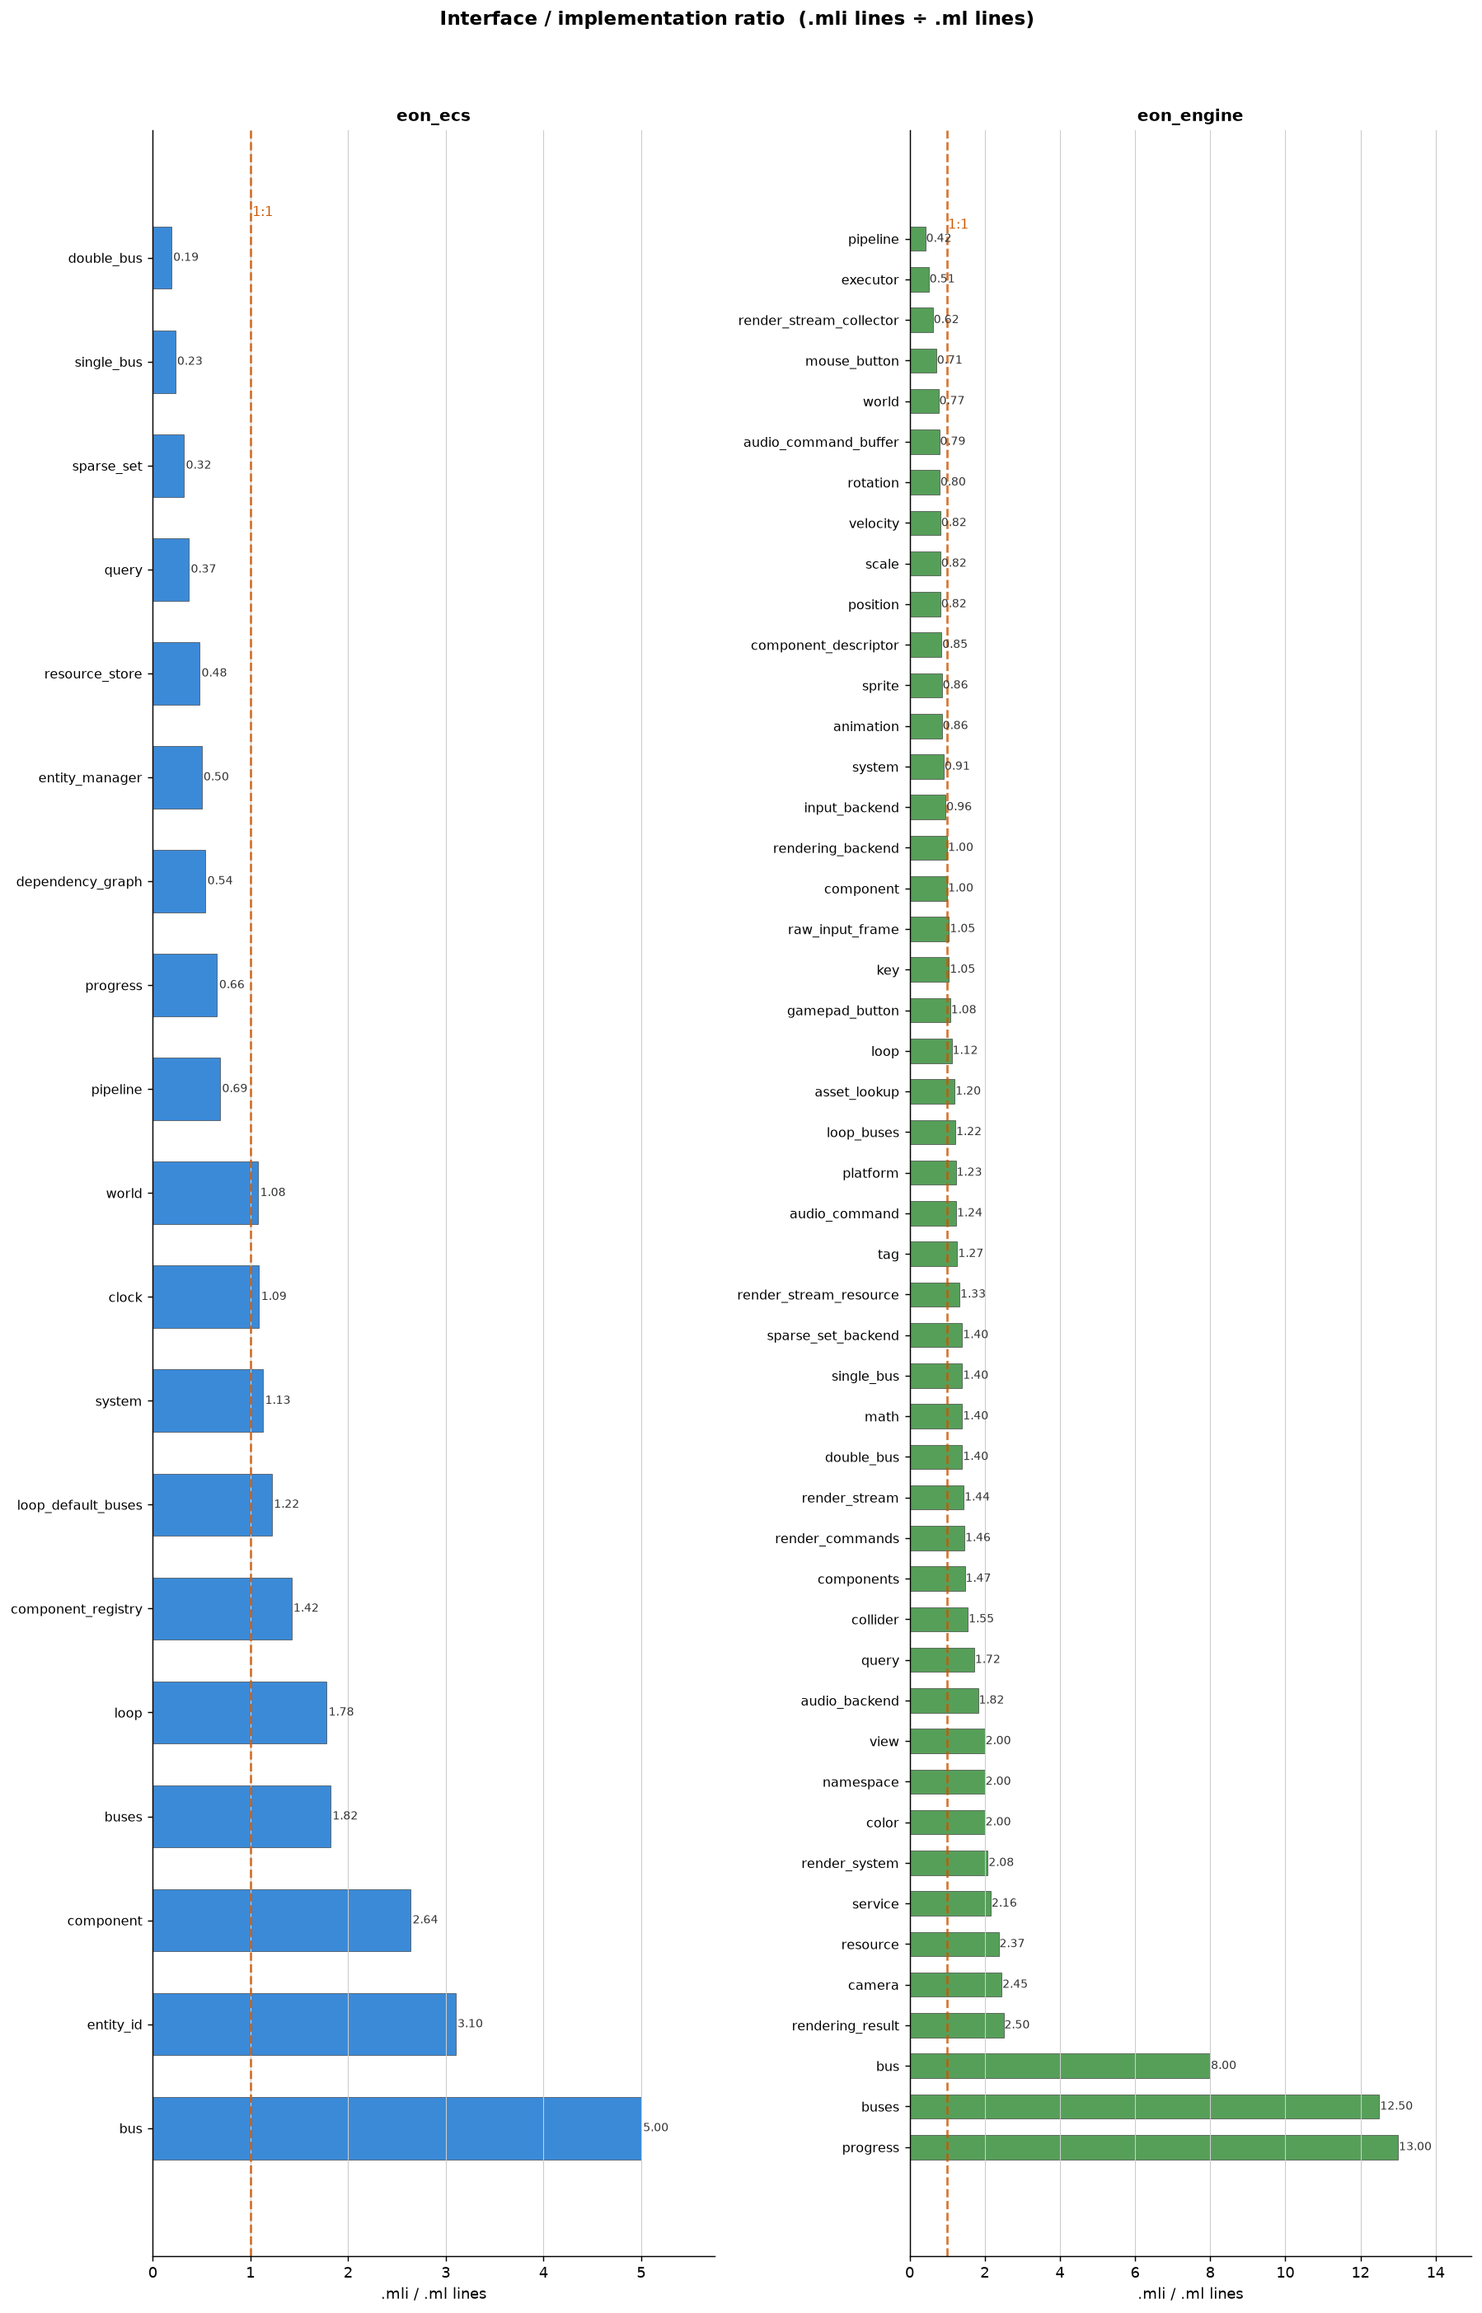
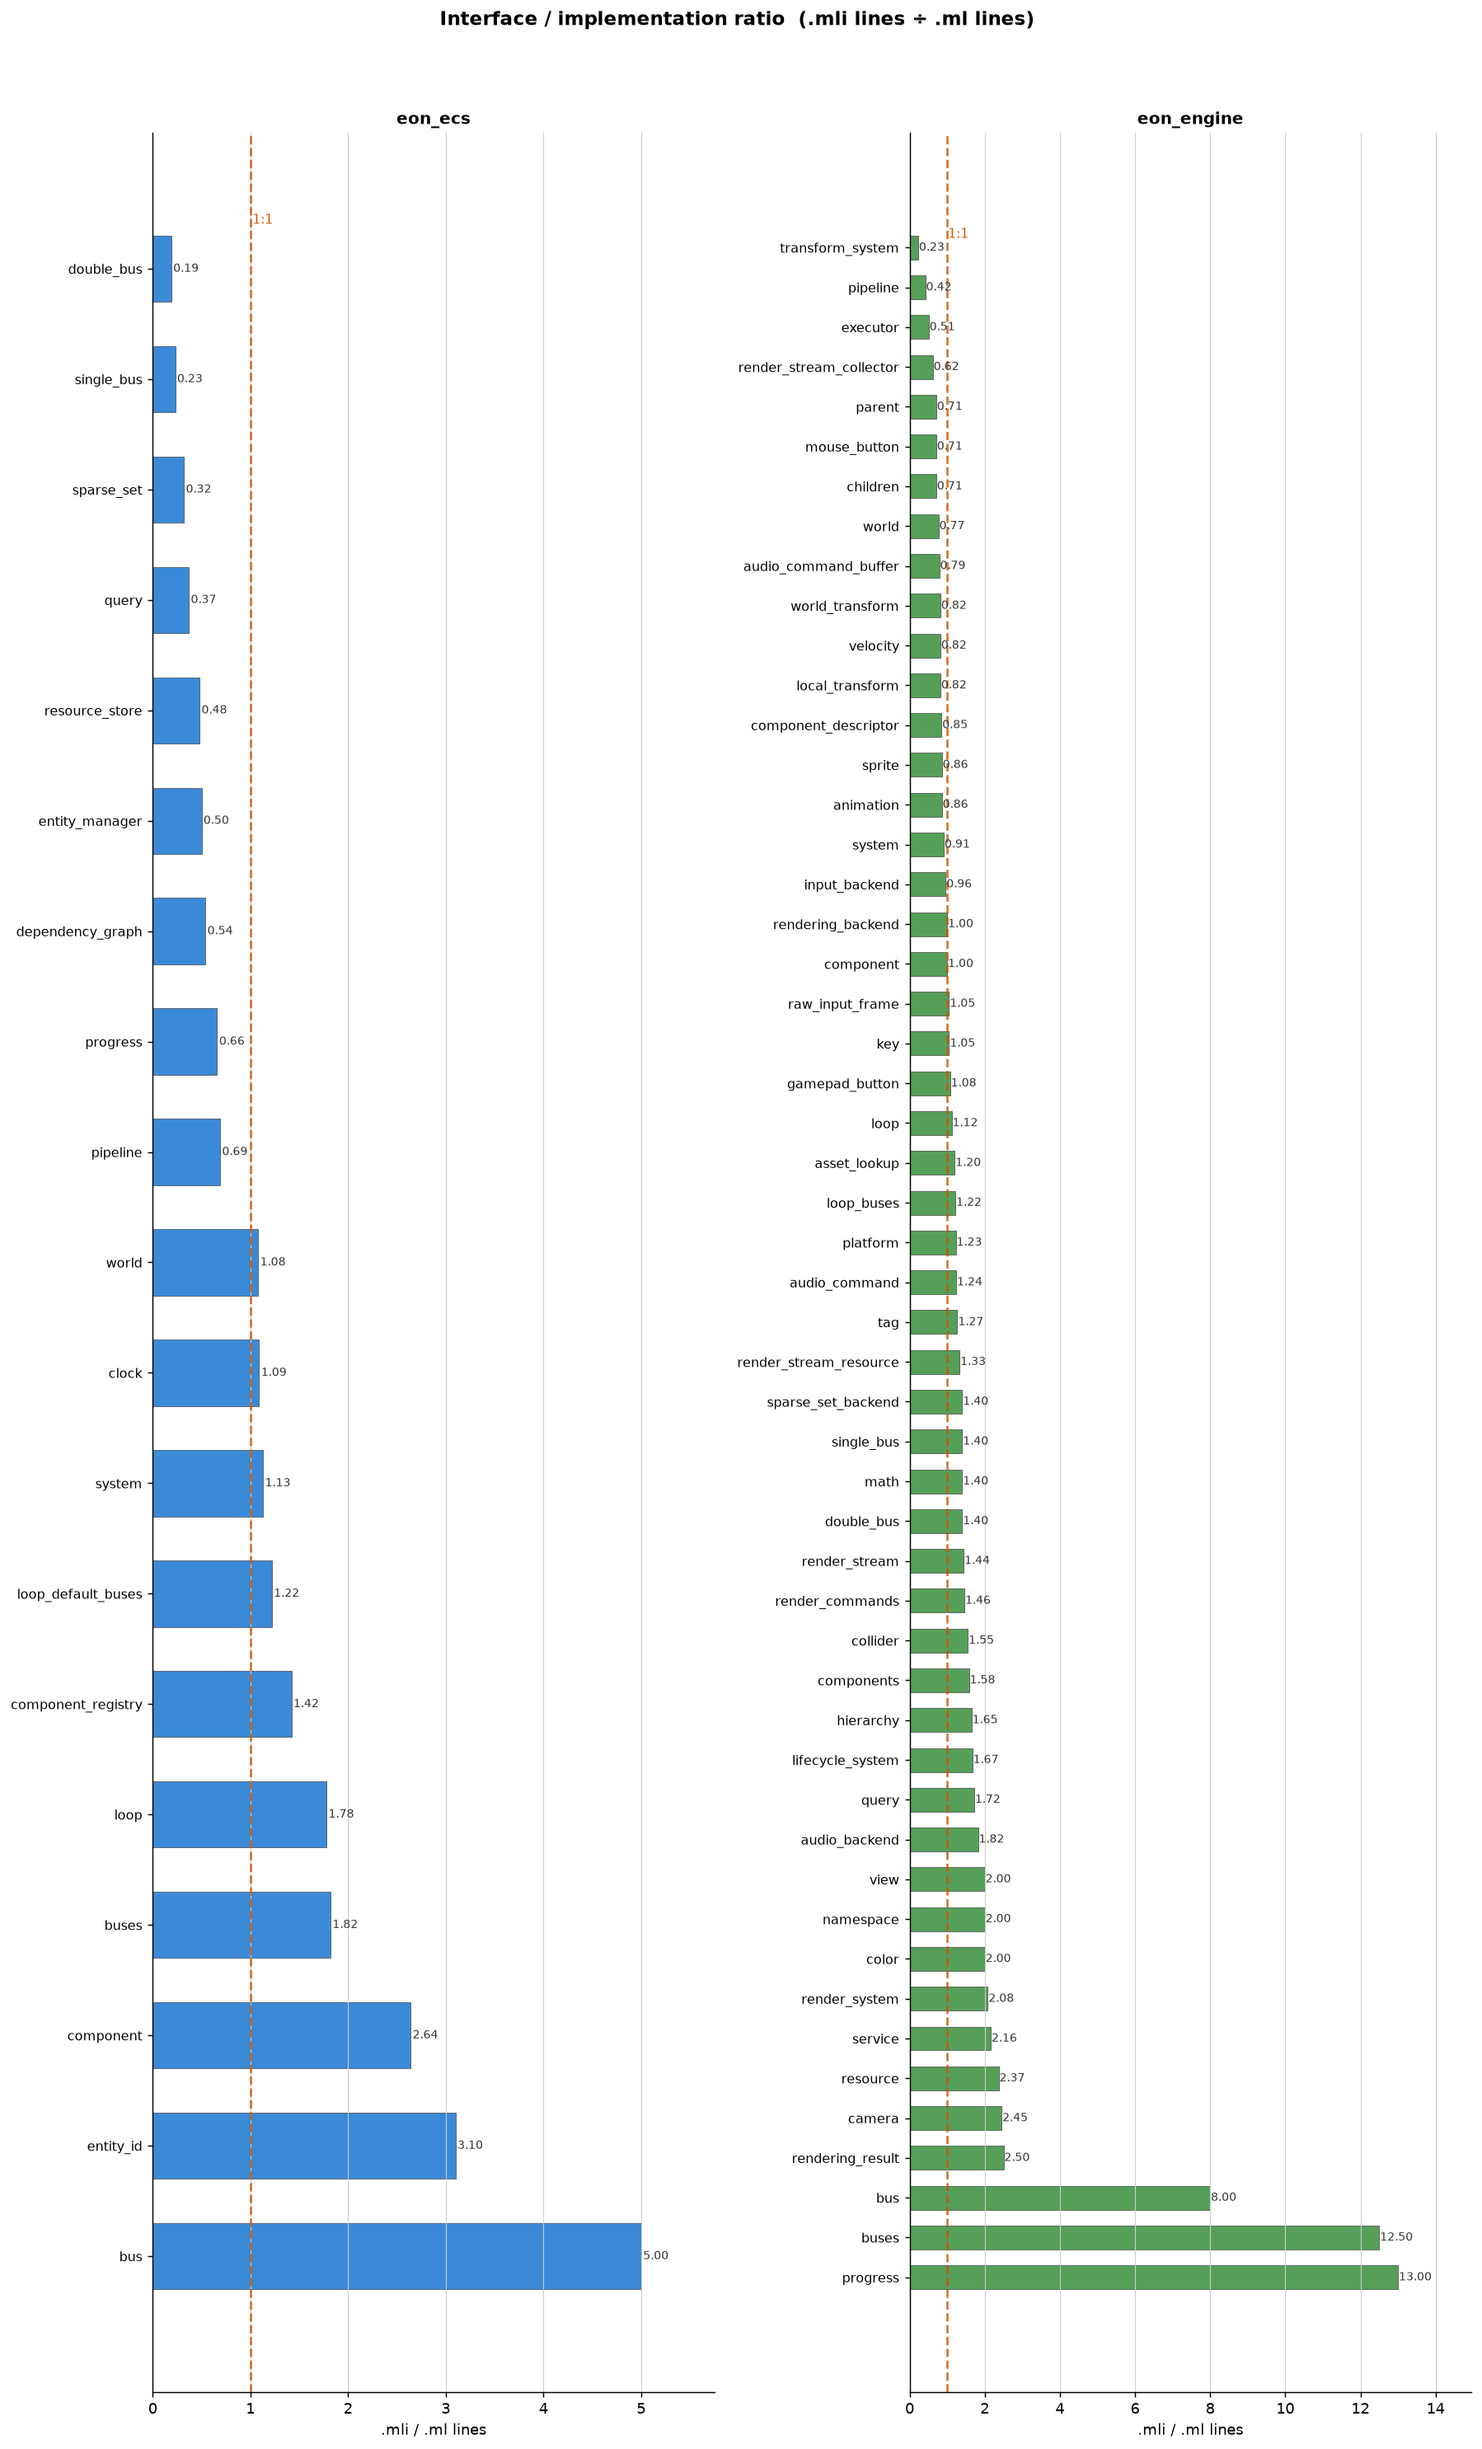
[eon :: docs] Split module dependency graph into eon_ecs, eon_engine, and cross-package views
- Replace single module_dependency_graph with three focused diagrams:
  dep_eon_ecs.png, dep_eon_engine.png, dep_cross_package.png
- Add Hierarchy, Transform_system, Lifecycle_system to eon_engine graph
- Add hierarchy/transform_system/lifecycle_system to coverage map
- Update codebase_map.md with new section structure and descriptions
- Refresh stats, LOC, and interface ratio charts

diff --git a/docs/design/codebase_map.md b/docs/design/codebase_map.md
@@ -10,14 +10,9 @@ just visualizations
 
 ---
 
-## Module dependency graph
+## Module dependency graphs
 
-Shows embedding and dependency relationships between modules within each package, and the cross-package seam where `eon_engine` wraps `eon_ecs`.
-
-| Arrow | Meaning |
-|-------|---------|
-| black thin | internal dependency within the same package |
-| orange thick | cross-package: `eon_engine` depends on `eon_ecs` |
+Dependency relationships between modules within each package, and the cross-package seam where `eon_engine` wraps `eon_ecs`.
 
 | Color | Package |
 |-------|---------|
@@ -25,7 +20,19 @@ Shows embedding and dependency relationships between modules within each package
 | green | `eon_engine` |
 | tan | external (`mtime`) |
 
-![Module dependency graph](images/module_dependency_graph.png)
+### eon_ecs internal dependencies
+
+![eon_ecs dependency graph](images/dep_eon_ecs.png)
+
+### eon_engine internal dependencies
+
+![eon_engine dependency graph](images/dep_eon_engine.png)
+
+### Cross-package seam
+
+The orange edges show which `eon_engine` modules wrap their `eon_ecs` counterparts. Each pair shares a name — the engine module adds phantom capability types, bus wiring, and engine-layer API on top of the ECS primitive.
+
+![Cross-package dependency graph](images/dep_cross_package.png)
 
 ---
 
@@ -75,24 +82,24 @@ _Generated by `just visualizations` on 2026-07-05._
 
 | Category | eon\_ecs | eon\_engine | Total |
 |---|---:|---:|---:|
-| Source implementation (`.ml`) | 2051 | 1422 | 3473 |
-| Public interfaces (`.mli`) | 1223 | 1993 | 3216 |
-| Tests | 1979 | 2814 | 4793 |
+| Source implementation (`.ml`) | 2051 | 1562 | 3613 |
+| Public interfaces (`.mli`) | 1223 | 2161 | 3384 |
+| Tests | 2000 | 3170 | 5170 |
 | Benchmarks | 916 | 213 | 1129 |
 
 ### Module counts
 
 | | eon\_ecs | eon\_engine | Total |
 |---|---:|---:|---:|
-| Public modules (with `.mli`) | 20 | 50 | 70 |
-| Test suites | 20 | 15 | 35 |
-| Test cases | 76 | 178 | 254 |
+| Public modules (with `.mli`) | 20 | 54 | 74 |
+| Test suites | 20 | 18 | 38 |
+| Test cases | 78 | 193 | 271 |
 
 ### Repository
 
 | | |
 |---|---|
-| Total commits | 270 |
+| Total commits | 275 |
 | Open issues | 0 |
 | Created | 2025-10-11 |
 | Last commit | 2026-07-05 |
